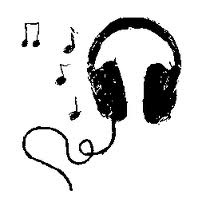
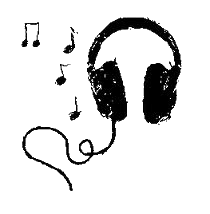
Founders: transparent die-cut stickers + headphones bridge to player
- Use the background-removed chess and Spider-Man images; strip white
  from piano and headphones.
- Render stickers with no white box: black line-art (piano, spider,
  headphones) tinted white, chess gets a soft glow disc so its dark
  pieces read on the dark card.
- Headphones drop out of the bottom of the circle toward the Spotify
  player, tying the music to the pop-up.

Claude-Session: https://claude.ai/code/session_01EEbnVSQRAkEgRUh8MJMJyK

diff --git a/src/pages/Founders.tsx b/src/pages/Founders.tsx
@@ -19,7 +19,8 @@ interface Founder {
   song?: string;       // Spotify track URI — plays on flip to baby pic
   songStopMs?: number; // stop playback at this position (ms)
   linkedin?: string;   // LinkedIn profile URL
-  favs?: { label: string; src: string; pos: React.CSSProperties; rot: string }[];
+  favs?: { label: string; src: string; pos: React.CSSProperties; rot: string; tint?: boolean; glow?: boolean }[];
+  musicSticker?: string; // sticker that bridges the circle to the Spotify player
 }
 
 const FOUNDERS: Founder[] = [
@@ -38,11 +39,11 @@ const FOUNDERS: Founder[] = [
     songStopMs: 12000,
     linkedin: 'https://www.linkedin.com/in/sai-sahaana-aswanth-7aab47419/',
     favs: [
-      { label: 'Chess',      src: '/founders/favs/chess.png',       pos: { top: '-7%',    left: '-11%'  }, rot: '-8deg' },
-      { label: 'Piano',      src: '/founders/favs/piano.png',       pos: { top: '-3%',    right: '-12%' }, rot: '7deg'  },
-      { label: 'Spider-Man', src: '/founders/favs/spiderman.webp',  pos: { bottom: '22%', left: '-13%'  }, rot: '6deg'  },
-      { label: 'Music',      src: '/founders/favs/headphones.png',  pos: { bottom: '10%', right: '-12%' }, rot: '-7deg' },
+      { label: 'Chess',      src: '/founders/favs/chess.png',      pos: { top: '-8%',    left: '-12%' }, rot: '-8deg', glow: true },
+      { label: 'Piano',      src: '/founders/favs/piano.png',      pos: { top: '-5%',    right: '-13%' }, rot: '7deg', tint: true },
+      { label: 'Spider-Man', src: '/founders/favs/spiderman.png',  pos: { bottom: '26%', left: '-14%' }, rot: '6deg', tint: true },
     ],
+    musicSticker: '/founders/favs/headphones.png',
     bio: [
       'My name is Sai Sahaana Aswanth, but I go by Sai. Ever since I was little, I’ve wanted to help the people around me, which led me to pursue biomedical engineering. Since starting high school, I’ve focused on creating opportunities that make a meaningful difference in people’s everyday lives.',
       'I’ve always been drawn to the question, “What can we do better?” I believe meaningful change starts with recognizing a problem and finding ways to address it. As a student, I know that preparing for exams and finding reliable study resources can be challenging, which inspired me to create Prepd, a student-led initiative that makes academic resources more accessible and helps students feel more confident in their learning.',
@@ -136,7 +137,7 @@ export default function Founders() {
                     {isFlipped && f.favs?.map((fav, k) => (
                       <div
                         key={fav.label}
-                        className="fav"
+                        className={`fav ${fav.tint ? 'fav-tint' : ''} ${fav.glow ? 'fav-glow' : ''}`}
                         title={fav.label}
                         style={{
                           ...fav.pos,
@@ -147,6 +148,13 @@ export default function Founders() {
                         <img src={fav.src} alt={fav.label} />
                       </div>
                     ))}
+
+                    {/* Headphones drop down out of the circle toward the Spotify player */}
+                    {isFlipped && f.musicSticker && (
+                      <div className="fav fav-tint fav-headphones" title="Now playing" aria-hidden="true">
+                        <img src={f.musicSticker} alt="" />
+                      </div>
+                    )}
                   </div>
 
                   {/* Spotify player — reveals + plays when flipped to the baby pic */}

diff --git a/src/pages/founders.css b/src/pages/founders.css
@@ -82,12 +82,8 @@
 /* ── Favorite-things stickers (pop out when flipped) ─────────────────────── */
 .fav {
   position: absolute;
-  width: 64px;
-  height: 64px;
-  background: #fff;
-  border-radius: 15px;
-  padding: 7px;
-  box-shadow: 0 7px 20px -6px rgba(0, 0, 0, 0.65);
+  width: 66px;
+  height: 66px;
   display: flex;
   align-items: center;
   justify-content: center;
@@ -95,7 +91,42 @@
   animation: fav-pop 0.5s cubic-bezier(0.34, 1.56, 0.64, 1) both,
              fav-float 3.6s ease-in-out infinite;
 }
-.fav img { width: 100%; height: 100%; object-fit: contain; }
+.fav img {
+  width: 100%;
+  height: 100%;
+  object-fit: contain;
+  /* die-cut white outline so the art reads on the dark card */
+  filter:
+    drop-shadow(0 0 1.5px #fff) drop-shadow(0 0 1.5px #fff)
+    drop-shadow(0 3px 5px rgba(0, 0, 0, 0.55));
+}
+/* black line-art → crisp white silhouette */
+.fav-tint img {
+  filter:
+    brightness(0) invert(1)
+    drop-shadow(0 3px 5px rgba(0, 0, 0, 0.6));
+}
+/* soft glow disc behind the (grayscale) chess so its dark pieces read */
+.fav-glow::before {
+  content: '';
+  position: absolute;
+  inset: 2px;
+  border-radius: 50%;
+  background: radial-gradient(circle, rgba(255, 255, 255, 0.85) 42%, rgba(255, 255, 255, 0) 72%);
+  filter: blur(3px);
+  z-index: -1;
+}
+
+/* Headphones hanging out of the circle, bridging to the Spotify player */
+.fav-headphones {
+  width: 74px;
+  height: 74px;
+  left: calc(50% - 37px);
+  bottom: -42px;
+  z-index: 5;
+  animation: fav-pop 0.5s cubic-bezier(0.34, 1.56, 0.64, 1) 0.45s both,
+             fav-float 3.6s ease-in-out infinite 1s;
+}
 
 @keyframes fav-pop {
   from { opacity: 0; transform: scale(0.2) rotate(var(--rot, 0deg)); }
